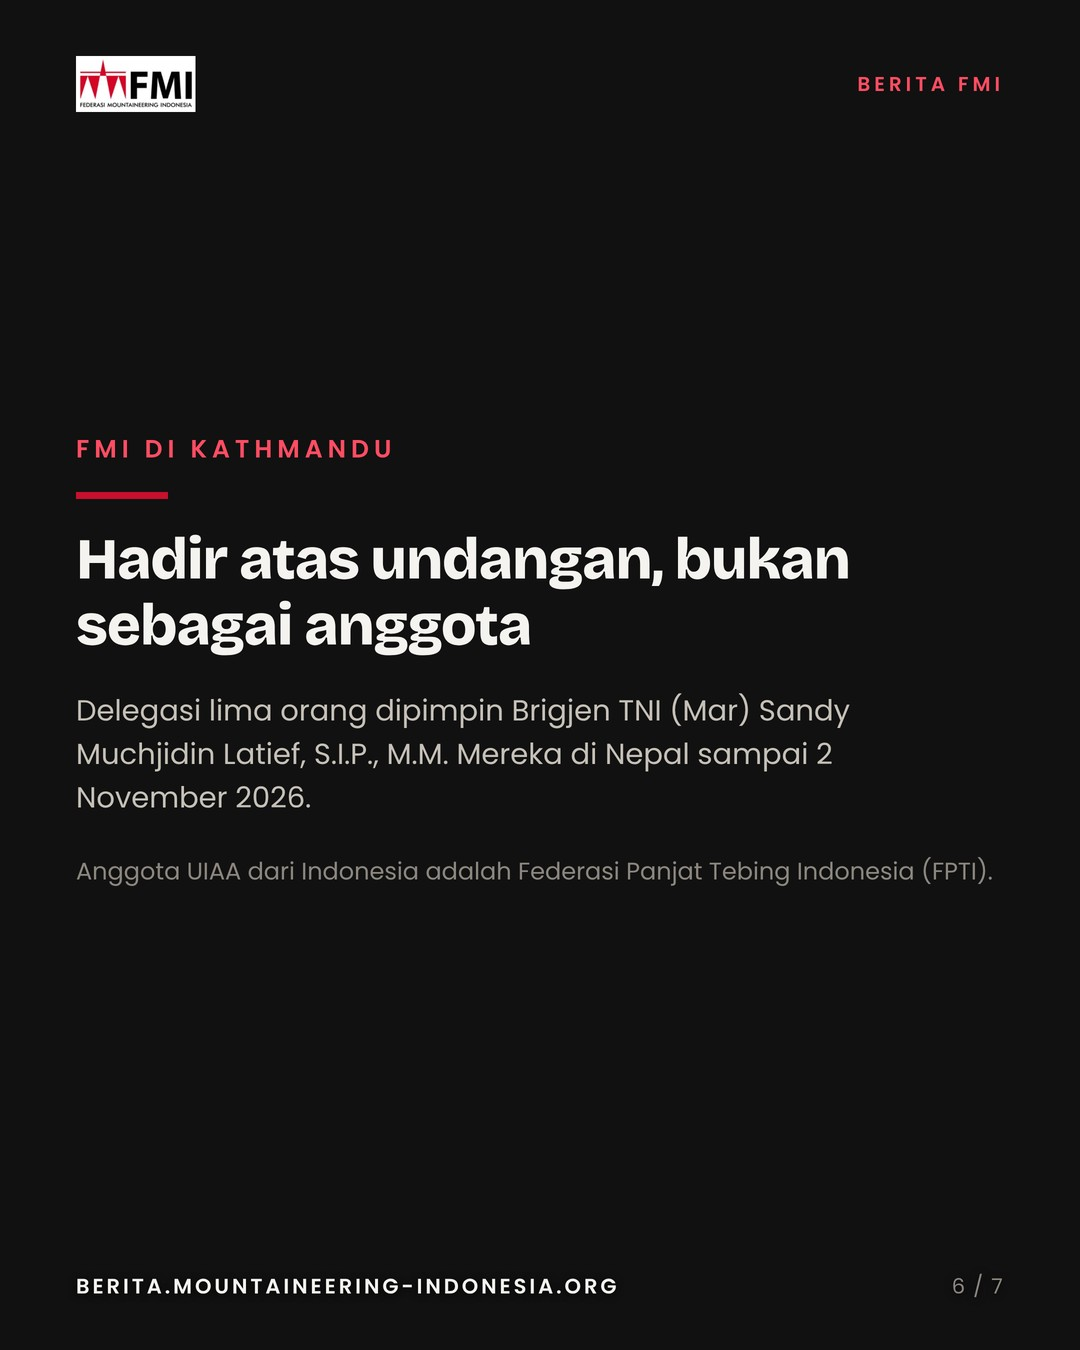
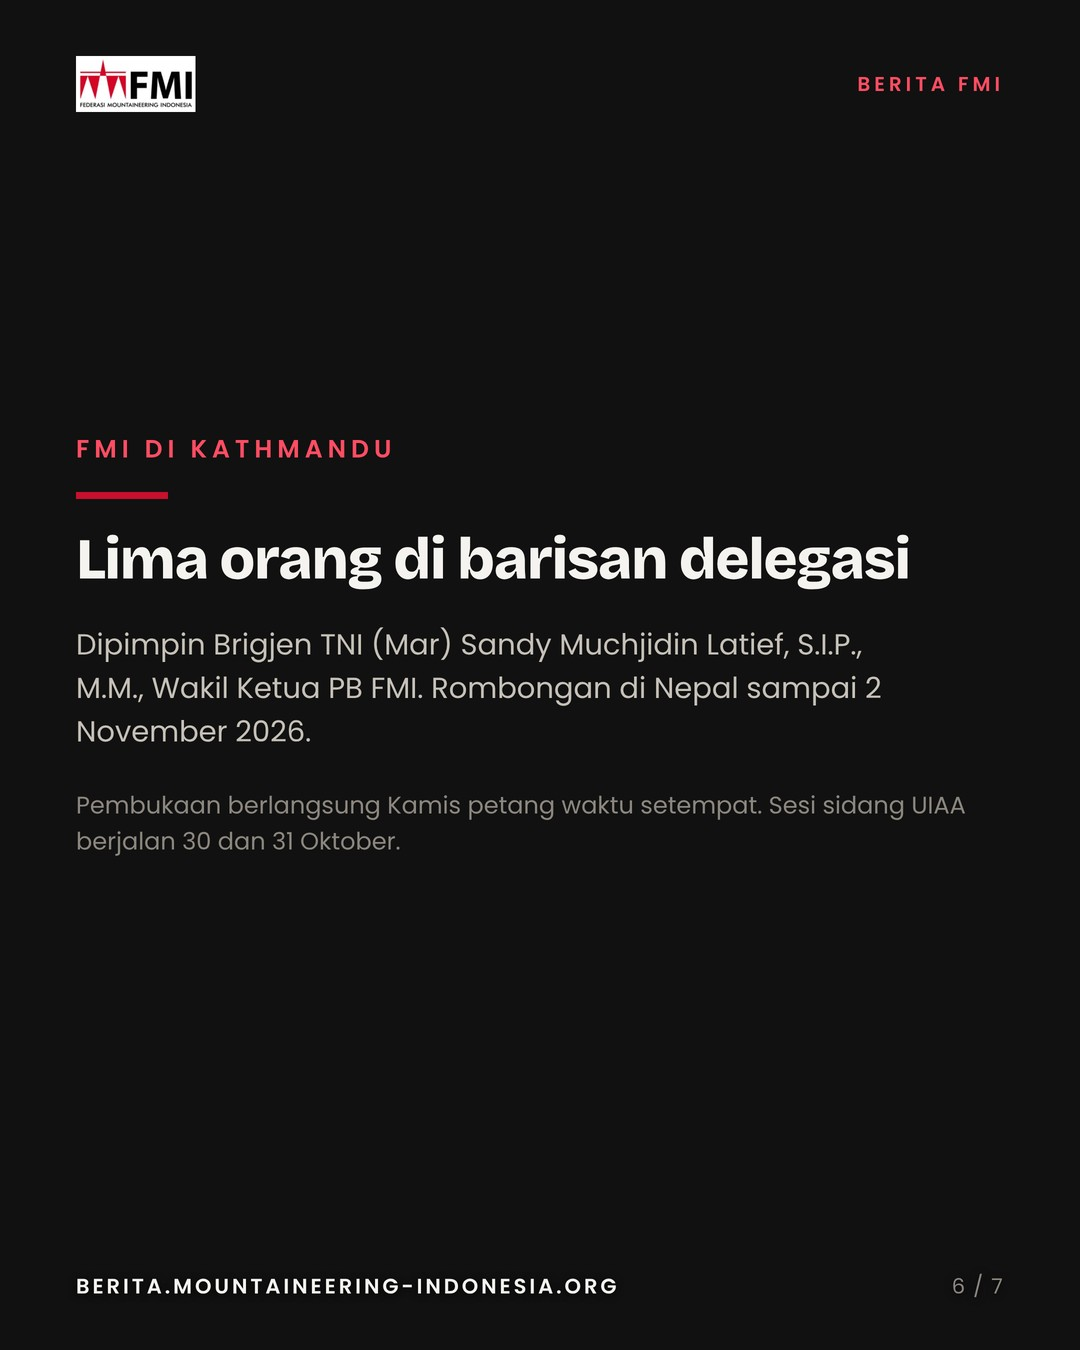
Ralat 089: sisipkan istilah Ring of Fire, buang penyebutan keanggotaan UIAA dan FPTI

Changed region(s): [[0.0611, 0.3733, 0.9167, 0.6533]]

diff --git a/berita/089-fmi-hadiri-pembukaan-sidang-umum-uiaa-kathmandu.html b/berita/089-fmi-hadiri-pembukaan-sidang-umum-uiaa-kathmandu.html
@@ -180,8 +180,8 @@ footer a:hover { color: var(--red); }
     <p data-en>From 17.40 to 18.45 the stage hosted the presentation of the Mountain Assessment report. The team comes from Nepal's surveyors and geomatics community: Madhu Sudan Adhikari, former President of the Nepal Surveyors Association; Er. Mahesh Thapa, President of the Nepal Geomatics Engineering Society; Anish Dahal; Thaneshwor Guragai; and Er. Khim Lal Gautam, Chief Survey Officer at the Survey Department of Nepal.</p>
     <p data-id>Bagi Indonesia, forum ini bukan panggung asing. Nepal dan Indonesia sama-sama negara pegunungan, tetapi karakter gunungnya berbeda. Nepal punya Himalaya bersalju. Indonesia punya gunung api tropis di kawasan Ring of Fire, tersebar di lebih dari 17 ribu pulau. Pertukaran pengalaman soal jalur, keselamatan, dan akses kawasan menjadi bahan utama delegasi.</p>
     <p data-en>For Indonesia this is not an unfamiliar stage. Nepal and Indonesia are both mountain nations, but the mountains differ in character. Nepal has the snow-covered Himalaya. Indonesia has tropical volcanoes in the Ring of Fire, spread across more than 17,000 islands. Exchanging experience on routes, safety, and access to mountain areas is the delegation's main material.</p>
-    <p data-id>Sidang Umum adalah forum tertinggi UIAA, induk federasi pendakian gunung dan panjat tebing dunia yang berdiri Agustus 1932 di Chamonix, Prancis. Per Sidang Umum 2025, UIAA punya 99 asosiasi anggota di 77 negara yang mewakili 3,45 juta pendaki. Sesi sidang berjalan 30 dan 31 Oktober 2026. Anggota UIAA dari Indonesia adalah Federasi Panjat Tebing Indonesia (FPTI). Delegasi FMI berada di Kathmandu sampai 2 November 2026.</p>
-    <p data-en>The General Assembly is the highest forum of the UIAA, the world body for mountaineering and climbing founded in August 1932 in Chamonix, France. As of the 2025 General Assembly, the UIAA has 99 member associations in 77 countries representing 3.45 million climbers. Assembly sessions run on 30 and 31 October 2026. Indonesia's UIAA member is the Federasi Panjat Tebing Indonesia (FPTI). The FMI delegation stays in Kathmandu until 2 November 2026.</p>
+    <p data-id>Sidang Umum adalah forum tertinggi UIAA, induk federasi pendakian gunung dan panjat tebing dunia yang berdiri Agustus 1932 di Chamonix, Prancis. Per Sidang Umum 2025, UIAA punya 99 asosiasi anggota di 77 negara yang mewakili 3,45 juta pendaki. Sesi sidang berjalan 30 dan 31 Oktober 2026. Delegasi FMI berada di Kathmandu sampai 2 November 2026.</p>
+    <p data-en>The General Assembly is the highest forum of the UIAA, the world body for mountaineering and climbing founded in August 1932 in Chamonix, France. As of the 2025 General Assembly, the UIAA has 99 member associations in 77 countries representing 3.45 million climbers. Assembly sessions run on 30 and 31 October 2026. The FMI delegation stays in Kathmandu until 2 November 2026.</p>
 
 <div class="ig-carousel-head">
   <div class="k">Carousel Instagram</div>
